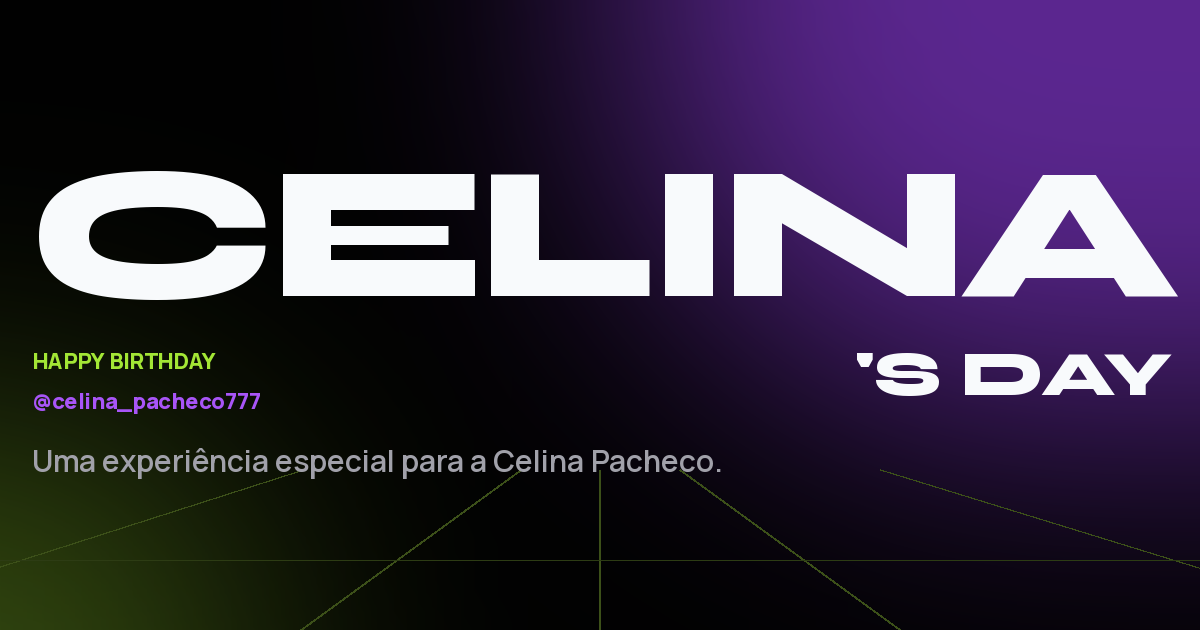
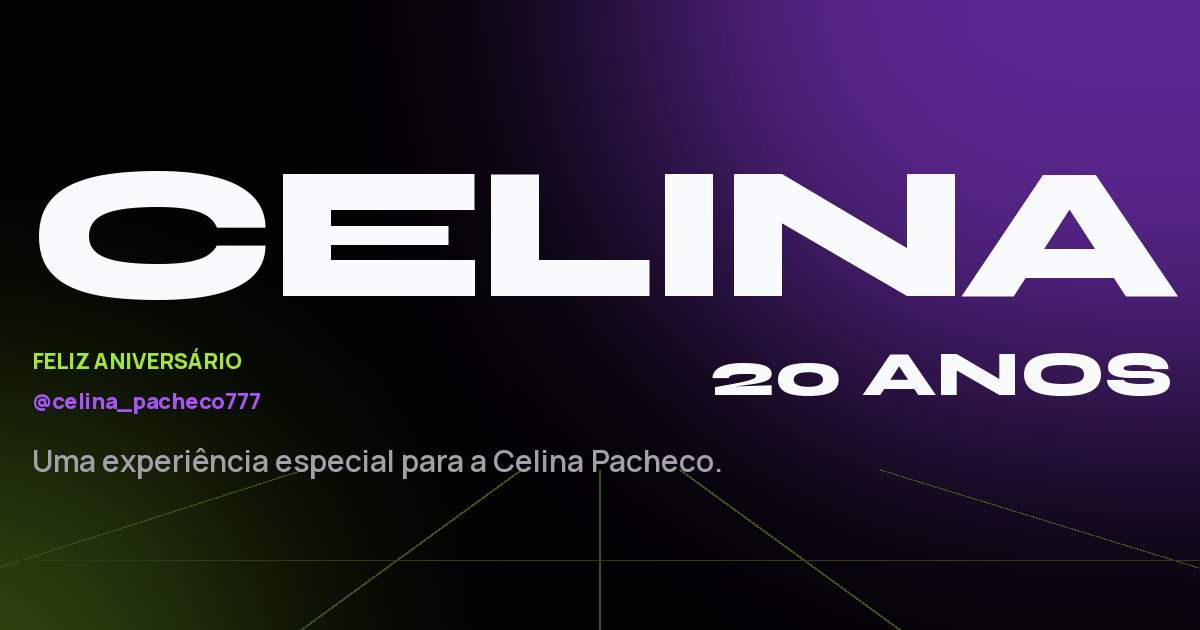
Traduz textos para PT-BR, tema 20 anos e ajustes para o Cloudflare

Changed region(s): [[0.5858, 0.5429, 0.9867, 0.6333], [0.0308, 0.5429, 0.2158, 0.6032]]

diff --git a/src/data/celina.js b/src/data/celina.js
@@ -5,6 +5,7 @@
 
 export const celina = {
   firstName: 'Celina',
+  age: 20,
   author: 'Lucas', // quem fez o presente — aparece na surpresa, no player e no rodapé
   fullName: 'Celina Pacheco',
   instagram: {
@@ -25,14 +26,15 @@ export const photos = {
 }
 
 export const hero = {
+  ageLine: '20 anos',
   subtitle: ['A mais inteligente da quadra.', 'A melhor voz fora dela.'],
   tags: [
-    { icon: 'volleyball', label: 'Volleyball' },
-    { icon: 'mic', label: 'Voice' },
-    { icon: 'bolt', label: '333 energy' },
-    { icon: 'bulb', label: 'Genius' },
+    { icon: 'volleyball', label: 'Vôlei' },
+    { icon: 'mic', label: 'Voz' },
+    { icon: 'bolt', label: 'Energia 333' },
+    { icon: 'bulb', label: 'Gênia' },
   ],
-  passLabel: 'All access',
+  passLabel: 'Acesso total',
   passNumber: 'Nº 777',
 }
 
@@ -48,14 +50,14 @@ export const surprise = {
 }
 
 export const identity = {
-  title: 'More than a player.',
+  title: 'Mais que uma jogadora.',
   intro: 'Resumir a Celina em uma palavra não dá. Em cinco, quase.',
   traits: [
-    { icon: 'volleyball', label: 'The athlete', line: 'Na quadra, competitividade não é opcional.' },
-    { icon: 'mic', label: 'The voice', line: 'Se tem microfone por perto, provavelmente ela já está cantando.' },
-    { icon: 'bulb', label: 'The mind', line: 'Inteligência em outro nível. Sem esforço aparente, o que é ainda pior.' },
-    { icon: 'headphones', label: 'The fan', line: 'Fã nível hard de Matuê. Não tente discutir: você vai perder.' },
-    { icon: 'bolt', label: 'The energy', line: 'Difícil explicar. Fácil perceber.' },
+    { icon: 'volleyball', label: 'A atleta', line: 'Na quadra, competitividade não é opcional.' },
+    { icon: 'mic', label: 'A voz', line: 'Se tem microfone por perto, provavelmente ela já está cantando.' },
+    { icon: 'bulb', label: 'A mente', line: 'Inteligência em outro nível. Sem esforço aparente, o que é ainda pior.' },
+    { icon: 'headphones', label: 'A fã', line: 'Fã nível hard de Matuê. Não tente discutir: você vai perder.' },
+    { icon: 'bolt', label: 'A energia', line: 'Difícil explicar. Fácil perceber.' },
   ],
 }
 
@@ -64,9 +66,9 @@ export const identity = {
    audioSrc: '/audio/parabens.mp3' → toca o seu arquivo (só use áudio que você
    tem direito de usar: gravação própria, trilha livre/licenciada). */
 export const track = {
-  title: "Celina's tracklist",
-  songTitle: 'Happy Birthday',
-  songVersion: "Celina's Version",
+  title: 'Tracklist da Celina',
+  songTitle: 'Parabéns',
+  songVersion: 'Versão da Celina',
   artist: 'feat. Todo Mundo Que Ama Ela',
   audioSrc: null,
   credit: 'Prod. Lucas. Beat original gerado ao vivo no seu navegador; melodia tradicional de parabéns, domínio público.',
@@ -74,8 +76,8 @@ export const track = {
     { title: 'Intro (Ace)', time: '1:07' },
     { title: 'Afinação Perfeita', time: '3:14' },
     { title: 'Bloqueio de Bad Vibe', time: '2:25' },
-    { title: '777 (Interlude)', time: '0:33' },
-    { title: "Happy Birthday (Celina's Version)", playable: true },
+    { title: '777 (Interlúdio)', time: '0:33' },
+    { title: 'Parabéns (Versão da Celina)', playable: true },
   ],
 }
 
@@ -83,23 +85,23 @@ export const matchPoint = {
   title: 'Match point',
   subtitle: 'Algumas estatísticas que simplesmente não podem ser ignoradas.',
   stats: [
-    { label: 'Attack', value: 100, note: 'Bloqueia qualquer bad vibe.' },
-    { label: 'Intelligence', value: 100, note: 'A mente mais braba da quadra.' },
-    { label: 'Vocals', value: 100, note: 'Afinação de estrela.' },
-    { label: 'Beauty', value: Infinity, note: 'Não existe métrica para isso.' },
-    { label: 'Energy', value: 999, note: 'Bateria aparentemente infinita.' },
+    { label: 'Ataque', value: 100, note: 'Bloqueia qualquer bad vibe.' },
+    { label: 'Inteligência', value: 100, note: 'A mente mais braba da quadra.' },
+    { label: 'Voz', value: 100, note: 'Afinação de estrela.' },
+    { label: 'Beleza', value: Infinity, note: 'Não existe métrica para isso.' },
+    { label: 'Energia', value: 999, note: 'Bateria aparentemente infinita.' },
   ],
   mvp: {
     badge: 'MVP',
     rating: 99,
-    position: 'Main character',
+    position: 'Protagonista',
     stats: [
       { label: 'INT', value: '100' },
       { label: 'VOZ', value: '100' },
-      { label: 'STYLE', value: '100' },
-      { label: 'ENERGY', value: '999' },
+      { label: 'ESTILO', value: '100' },
+      { label: 'ENERGIA', value: '999' },
     ],
-    signature: 'No debate.',
+    signature: 'Sem discussão.',
   },
   scoreboard: {
     label: 'Set final',
@@ -111,9 +113,9 @@ export const matchPoint = {
 }
 
 export const seriously = {
-  title: 'But seriously…',
+  title: 'Mas falando sério…',
   lines: [
-    'Hoje não é só sobre mais um ano.',
+    'Hoje não é só sobre fazer 20 anos.',
     'É sobre celebrar tudo aquilo que faz você ser você.',
     'Seu talento, sua inteligência, sua energia, suas loucuras, sua voz, sua paixão pelo vôlei e todas as pessoas que têm sorte de ter você por perto.',
   ],
@@ -121,25 +123,25 @@ export const seriously = {
 
 /* Momento "faça um pedido": velas que ela apaga com toques. */
 export const wish = {
-  title: 'Make a wish.',
-  text: 'Celina, essa parte é sua. Pensa no pedido e apaga as três velas.',
+  title: 'Faz um pedido.',
+  text: 'Celina, essa parte é sua. 20 anos, um pedido: pensa nele e apaga as três velas.',
   candles: 3,
   done: 'Pedido feito. Agora é segredo.',
   relight: 'Acender de novo',
 }
 
 export const sayHi = {
-  title: 'Go say hi.',
+  title: 'Vai lá dar um oi.',
   text: 'A protagonista provavelmente está esperando você no Instagram.',
 }
 
 export const finale = {
-  title: 'Happy birthday, Celina.',
-  text: 'Que esse novo capítulo seja tão incrível quanto você.',
-  cta: 'Celebrate again',
+  title: 'Parabéns, Celina.',
+  text: 'Que os 20 sejam tão incríveis quanto você.',
+  cta: 'Comemorar de novo',
 }
 
 export const footer = {
-  line: 'Made with chaos, code & carinho by Lucas.',
-  copyright: "Celina's Day",
+  line: 'Feito com caos, código e carinho por Lucas.',
+  copyright: 'Celina, 20 anos',
 }

diff --git a/src/components/Hero.jsx b/src/components/Hero.jsx
@@ -47,7 +47,7 @@ export function Hero({ ready }) {
     t.count = 0
     const unlocking = !secret
     setSecret(unlocking)
-    showToast(unlocking ? 'Secret mode unlocked' : 'Secret mode off')
+    showToast(unlocking ? 'Modo secreto liberado' : 'Modo secreto desligado')
     celebrate(
       unlocking
         ? { size: 'big', colors: CONFETTI_COLORS.lime, sound: 'unlock' }
@@ -66,7 +66,7 @@ export function Hero({ ready }) {
 
       <div className="container hero__inner">
         <h1 id="hero-title" className="hero__title">
-          <span className="sr-only">Celina&apos;s Day</span>
+          <span className="sr-only">Celina, {hero.ageLine}</span>
           <span className="hero__name" aria-hidden="true">
             {NAME.split('').map((char, i) => (
               <span key={i} className="hero__char" style={{ '--i': i }}>
@@ -75,7 +75,7 @@ export function Hero({ ready }) {
             ))}
           </span>
           <span className="hero__day hero__fade" style={{ '--d': 1 }} aria-hidden="true">
-            &apos;s day
+            {hero.ageLine}
           </span>
         </h1>
 
@@ -95,7 +95,7 @@ export function Hero({ ready }) {
           </p>
           <div className="hero__actions hero__fade" style={{ '--d': 3 }}>
             <Button magnetic icon="arrow" onClick={startCelebration}>
-              Start the celebration
+              Começar a festa
             </Button>
             <Button variant="ghost" iconStart="gift" onClick={openSurprise}>
               Tenho uma surpresa

diff --git a/index.html b/index.html
@@ -3,16 +3,16 @@
   <head>
     <meta charset="UTF-8" />
     <meta name="viewport" content="width=device-width, initial-scale=1, viewport-fit=cover" />
-    <title>Celina's Day — Happy Birthday 🎂</title>
-    <meta name="description" content="Uma experiência especial criada para celebrar a Celina Pacheco." />
+    <title>Celina, 20 anos — Feliz aniversário 🎂</title>
+    <meta name="description" content="Uma experiência especial criada para celebrar os 20 anos da Celina Pacheco." />
     <meta name="theme-color" content="#050505" />
     <meta name="color-scheme" content="dark" />
     <link rel="icon" type="image/svg+xml" href="/favicon.svg" />
 
     <meta property="og:type" content="website" />
     <meta property="og:locale" content="pt_BR" />
-    <meta property="og:title" content="Celina's Day — Happy Birthday 🎂" />
-    <meta property="og:description" content="Uma experiência especial criada para celebrar a Celina Pacheco." />
+    <meta property="og:title" content="Celina, 20 anos — Feliz aniversário 🎂" />
+    <meta property="og:description" content="Uma experiência especial criada para celebrar os 20 anos da Celina Pacheco." />
     <meta property="og:url" content="%VITE_SITE_URL%" />
     <meta property="og:image" content="%VITE_SITE_URL%/og-image.png" />
     <meta property="og:image:width" content="1200" />

diff --git a/src/components/Intro.jsx b/src/components/Intro.jsx
@@ -3,10 +3,10 @@ import './Intro.css'
 
 /* Abertura curta (< 2 s). Pode pular com o botão, Enter ou Esc. */
 const SEQUENCE = [
-  { at: 0, label: 'Initializing experience', pct: 1 },
-  { at: 300, label: 'Loading Celina', pct: 33 },
-  { at: 640, label: 'Loading Celina', pct: 77 },
-  { at: 960, label: 'Loading Celina', pct: 100 },
+  { at: 0, label: 'Iniciando a experiência', pct: 1 },
+  { at: 300, label: 'Carregando Celina', pct: 33 },
+  { at: 640, label: 'Carregando 20 anos', pct: 77 },
+  { at: 960, label: 'Carregando 20 anos', pct: 100 },
   { at: 1200, ready: true },
 ]
 const LEAVE_AT = 1600
@@ -46,7 +46,7 @@ export function Intro({ onDone }) {
     <div className={`intro ${leaving ? 'is-leaving' : ''}`}>
       <div className="intro__box" aria-hidden="true">
         {step.ready ? (
-          <p className="intro__ready">Ready?</p>
+          <p className="intro__ready">Bora?</p>
         ) : (
           <>
             <p className="intro__pct">

diff --git a/src/components/Header.jsx b/src/components/Header.jsx
@@ -16,8 +16,8 @@ export function Header({ ready }) {
   return (
     <header className={`site-header ${scrolled ? 'is-scrolled' : ''}`} data-ready={ready}>
       <div className="container site-header__inner">
-        <a href="#topo" className="wordmark" aria-label="Celina's Day, voltar ao topo">
-          Celina&apos;s Day <small>777</small>
+        <a href="#topo" className="wordmark" aria-label="Celina, 20 anos: voltar ao topo">
+          Celina <small>20</small>
         </a>
         <button
           type="button"
@@ -27,7 +27,7 @@ export function Header({ ready }) {
           onClick={() => setSoundOn((on) => !on)}
         >
           <Icon name={soundOn ? 'soundOn' : 'soundOff'} size={18} />
-          <span aria-hidden="true">{soundOn ? 'Som on' : 'Som off'}</span>
+          <span aria-hidden="true">{soundOn ? 'Som ligado' : 'Som desligado'}</span>
         </button>
       </div>
     </header>

diff --git a/vite.config.js b/vite.config.js
@@ -1,6 +1,25 @@
-import { defineConfig } from 'vite'
+import { defineConfig, loadEnv } from 'vite'
 import react from '@vitejs/plugin-react'
 
-export default defineConfig({
-  plugins: [react()],
+export default defineConfig(({ mode }) => {
+  const env = loadEnv(mode, process.cwd(), '')
+  // Sem barra no final, senão a og:image vira "//og-image.png"
+  const siteUrl = (env.VITE_SITE_URL || '').replace(/\/+$/, '')
+
+  if (mode === 'production' && !siteUrl) {
+    console.warn(
+      '\n⚠ VITE_SITE_URL não definida: a prévia no WhatsApp não vai mostrar a foto.\n' +
+        '  No Cloudflare: Settings → Build → Variables and secrets.\n',
+    )
+  }
+
+  return {
+    plugins: [
+      react(),
+      {
+        name: 'site-url',
+        transformIndexHtml: (html) => html.replaceAll('%VITE_SITE_URL%', siteUrl),
+      },
+    ],
+  }
 })

diff --git a/src/components/Tracklist.jsx b/src/components/Tracklist.jsx
@@ -10,9 +10,9 @@ import './Tracklist.css'
 
 const BANDS = 20
 const STATUS_TEXT = {
-  idle: 'Ready',
-  playing: 'Now playing…',
-  paused: 'Paused',
+  idle: 'Pronto pra tocar',
+  playing: 'Tocando agora…',
+  paused: 'Pausado',
   ended: 'Acabou. De novo?',
   error: 'Este navegador não liberou o áudio',
 }
@@ -127,9 +127,9 @@ export function Tracklist() {
               <div className="player__cover-type" aria-hidden="true">
                 <span>777</span>
                 <strong>
-                  Celina&apos;s
+                  Versão
                   <br />
-                  version
+                  da Celina
                 </strong>
               </div>
             </div>

diff --git a/src/styles/tokens.css b/src/styles/tokens.css
@@ -1,5 +1,5 @@
 /* ==========================================================================
-   DESIGN TOKENS — Celina's Day
+   DESIGN TOKENS — Celina, 20 anos
    Toda cor, fonte, espaço e tempo de animação do site sai daqui.
    ========================================================================== */
 

diff --git a/src/components/Wish.jsx b/src/components/Wish.jsx
@@ -46,7 +46,7 @@ export function Wish() {
             ))}
           </div>
           <div className="cake__body" aria-hidden="true">
-            <span className="cake__label">777</span>
+            <span className="cake__label">20</span>
           </div>
         </div>
 

diff --git a/src/components/Wish.css b/src/components/Wish.css
@@ -130,9 +130,9 @@
   bottom: 1rem;
   font-family: var(--font-display);
   font-weight: 800;
-  font-size: 0.875rem;
-  letter-spacing: 0.2em;
-  color: var(--text-muted);
+  font-size: 2rem;
+  letter-spacing: -0.02em;
+  color: var(--text);
 }
 
 .cake.is-done .cake__body {

diff --git a/src/components/Tracklist.css b/src/components/Tracklist.css
@@ -99,7 +99,7 @@
 .player__cover-type strong {
   font-family: var(--font-display);
   font-weight: 800;
-  font-size: 11cqi;
+  font-size: 9.5cqi;
   line-height: 0.9;
   letter-spacing: -0.03em;
   text-transform: uppercase;

diff --git a/README.md b/README.md
@@ -1,6 +1,6 @@
-# Celina's Day 🎂
+# Celina, 20 anos 🎂
 
-Microsite de aniversário da Celina Pacheco. React + Vite, CSS puro com design tokens, sem bibliotecas de animação: confete em canvas, beat original em Web Audio e todo o conteúdo num arquivo só.
+Microsite dos 20 anos da Celina Pacheco. React + Vite, CSS puro com design tokens, sem bibliotecas de animação: confete em canvas, beat original em Web Audio e todo o conteúdo num arquivo só.
 
 ## Rodar no seu computador
 
@@ -29,11 +29,11 @@ Coloque 5 fotos em `public/fotos/` com estes nomes:
 - `celina-avatar.jpg`: círculo do Instagram (quadrada, só o rosto)
 - `celina-2.jpg`: capa do single no player (ganha efeito duotone roxo/verde)
 - `celina-3.jpg`: card de MVP
-- `celina-4.jpg`: seção "But seriously…"
+- `celina-4.jpg`: seção "Mas falando sério…"
 
 Vertical (4:5 ou 3:4), por volta de 1200 px de largura. Enquanto a foto não existir, aparece um placeholder `[ FOTO DA CELINA ]`. Outro nome ou formato? Troque o caminho em `photos` no `celina.js`.
 
-### Faça um pedido
+### Faz um pedido
 
 Antes do Instagram tem um bolo com 3 velas: cada toque apaga uma e, quando a última apaga, sai a chuva de confete. Texto e quantidade de velas ficam em `wish` no `celina.js`.
 
@@ -45,13 +45,20 @@ Para usar um áudio seu: coloque o arquivo em `public/audio/` e, em `celina.js`,
 
 No iPhone, o som do Web Audio não sai com o modo silencioso ligado. O site avisa isso durante a reprodução.
 
-## Publicar (Vercel, grátis)
+## Publicar (Cloudflare, grátis)
 
-1. Suba a pasta para um repositório no GitHub.
-2. Em vercel.com, "Add New → Project", importe o repositório. Ele detecta Vite sozinho.
-3. Depois do primeiro deploy, copie a URL final, cole em `.env` (`VITE_SITE_URL=https://...`, sem barra no final), faça commit e push. É isso que faz a prévia com imagem aparecer quando o link é mandado no WhatsApp.
+O projeto já vem configurado para o Cloudflare Workers (`wrangler.jsonc`): o Vite gera a pasta `dist/` e o Cloudflare serve esses arquivos.
 
-Netlify também funciona: comando de build `npm run build`, pasta `dist`.
+1. Em dash.cloudflare.com, vá em **Workers & Pages → Create → Import a repository** e escolha o repositório `niver` no GitHub.
+2. Confira os campos:
+   - Build command: `npm run build`
+   - Deploy command: `npx wrangler deploy`
+3. Clique em **Deploy**. O site fica em `https://niver.<sua-conta>.workers.dev` (ou ligue um domínio seu em **Settings → Domains & Routes**).
+4. Para a prévia com foto no WhatsApp: em **Settings → Build → Variables and secrets**, crie `VITE_SITE_URL` com a URL final (sem barra no final) e faça um novo deploy. Essa variável entra no momento do build.
+
+Depois disso, cada `git push` na `main` publica sozinho.
+
+Pelo terminal, sem GitHub: `npx wrangler login` uma vez e depois `npm run deploy`.
 
 Para gerar os arquivos estáticos manualmente: `npm run build` (saída em `dist/`).
 
